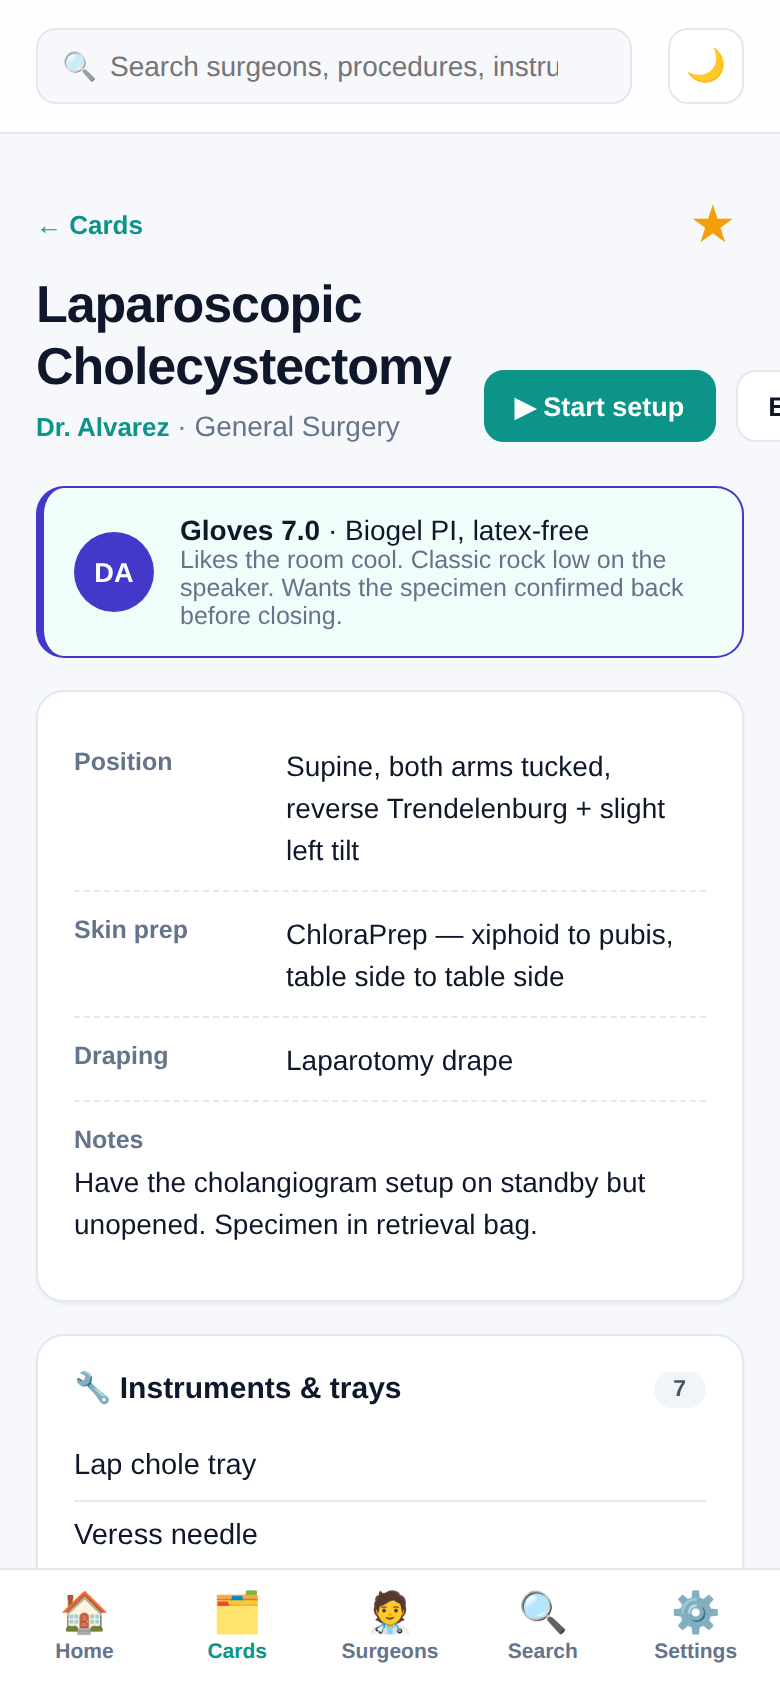
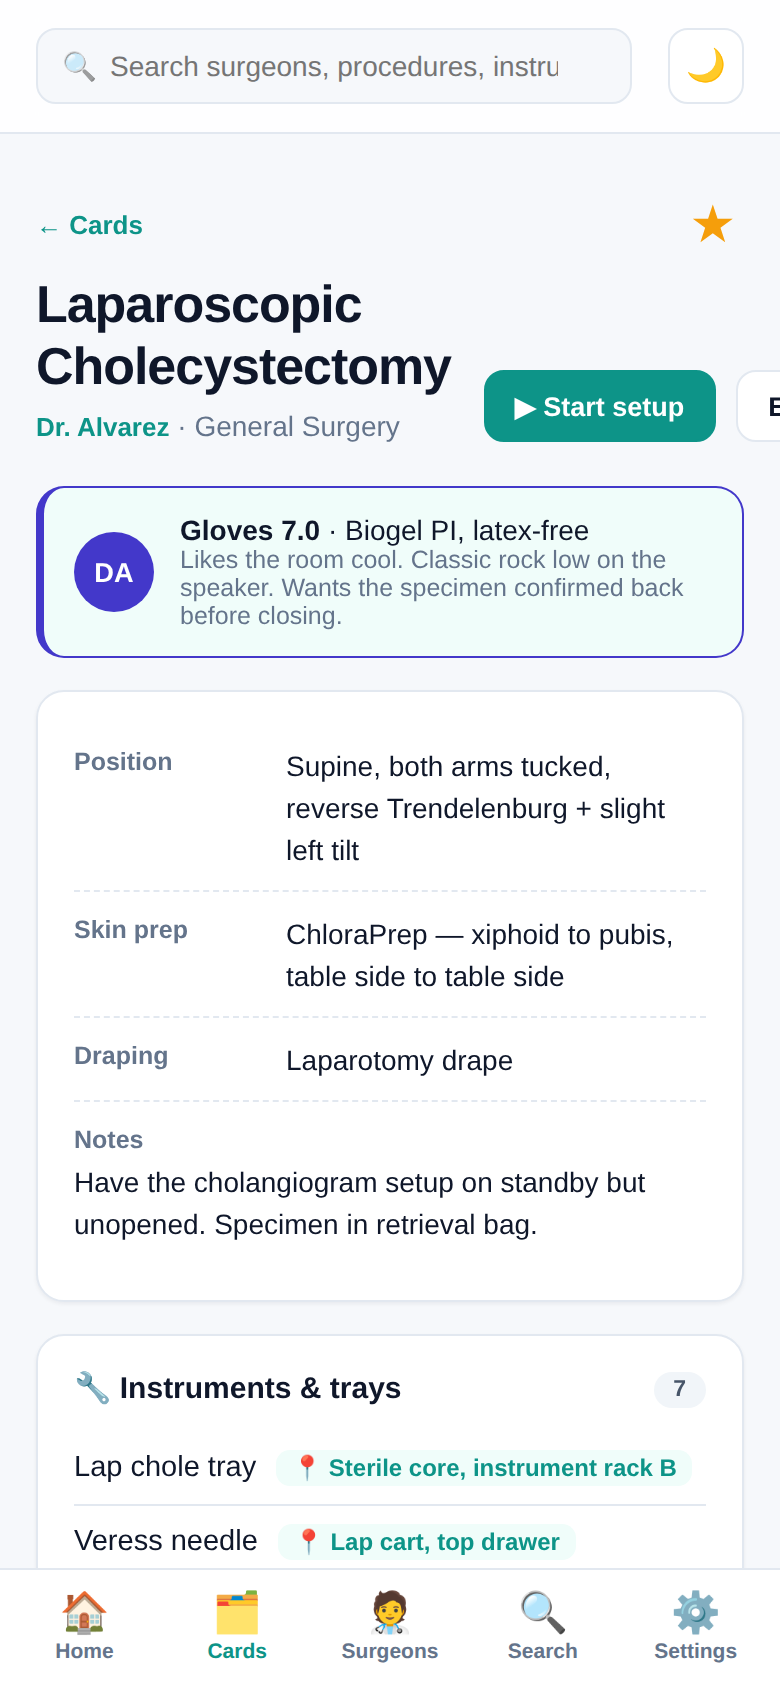
Add per-item storage locations ("cabinet 7, shelf 3")
Every card item can now carry an optional location — where to find it in
this facility. The thing a traveling tech in an unfamiliar OR needs most.

- CardItem gains an optional `location`; seed library populated with
  realistic examples (sterile store room, lap cart, suture room…).
- Card editor: a location input per item with a datalist of locations
  you've already used, so common spots are reused, not retyped.
- Surfaced as a teal 📍 tag in card detail and — most importantly — on each
  Setup-mode pull-list row (dimmed once the item is checked off).
- Locations are searchable ("cabinet 7" finds the card) and included in a
  shared/exported card's text.

Build + 19 tests green. Screenshots refreshed.

Claude-Session: https://claude.ai/code/session_0189FcNw7rgHX9dvCmvE1P3E

Changed region(s): [[0.3692, 0.8626, 0.8923, 0.9242], [0.0923, 0.8626, 0.3385, 0.9242]]

diff --git a/src/pages/CardEdit.tsx b/src/pages/CardEdit.tsx
@@ -1,6 +1,6 @@
 import { useMemo, useState } from "react";
 import { useNavigate, useParams } from "react-router-dom";
-import { useStore, emptyCard, uid } from "../state/store";
+import { useStore, emptyCard, uid, knownLocations } from "../state/store";
 import { SECTIONS, type CardItem, type PrefCard, type SectionKey } from "../types";
 
 // Create or edit a card. Local draft state; nothing is persisted until "Save".
@@ -21,6 +21,15 @@ export function CardEdit() {
   const [sgSpecialty, setSgSpecialty] = useState("General Surgery");
 
   const set = (patch: Partial<PrefCard>) => setDraft((d) => ({ ...d, ...patch }));
+
+  // Locations already used across the library (plus any added in this draft) so
+  // they can be reused from a dropdown instead of retyped each time.
+  const locationOptions = useMemo(() => {
+    const fromDraft = SECTIONS.flatMap((s) => draft[s.key as SectionKey])
+      .map((it) => it.location)
+      .filter((x): x is string => !!x);
+    return Array.from(new Set([...knownLocations(state), ...fromDraft])).sort();
+  }, [state, draft]);
 
   const canSave = useMemo(
     () => draft.procedure.trim().length > 0 && (newSurgeon ? sgName.trim().length > 0 : !!draft.surgeonId),
@@ -130,6 +139,7 @@ export function CardEdit() {
           label={sec.label}
           icon={sec.icon}
           items={draft[sec.key as SectionKey]}
+          locationOptions={locationOptions}
           onChange={(items) => set({ [sec.key]: items } as Partial<PrefCard>)}
         />
       ))}
@@ -147,21 +157,34 @@ function ItemEditor({
   label,
   icon,
   items,
+  locationOptions,
   onChange,
 }: {
   label: string;
   icon: string;
   items: CardItem[];
+  locationOptions: string[];
   onChange: (items: CardItem[]) => void;
 }) {
   const [name, setName] = useState("");
   const [detail, setDetail] = useState("");
+  const [location, setLocation] = useState("");
+  const listId = `loc-${label.replace(/\W+/g, "")}`;
 
   function add() {
     if (!name.trim()) return;
-    onChange([...items, { id: uid("it"), name: name.trim(), detail: detail.trim() || undefined }]);
+    onChange([
+      ...items,
+      {
+        id: uid("it"),
+        name: name.trim(),
+        detail: detail.trim() || undefined,
+        location: location.trim() || undefined,
+      },
+    ]);
     setName("");
     setDetail("");
+    setLocation("");
   }
 
   return (
@@ -177,6 +200,7 @@ function ItemEditor({
             <li key={it.id}>
               <span className="item-name">{it.name}</span>
               {it.detail && <span className="item-detail">{it.detail}</span>}
+              {it.location && <span className="item-location">📍 {it.location}</span>}
               <button
                 className="info-del"
                 aria-label={`Remove ${it.name}`}
@@ -189,6 +213,11 @@ function ItemEditor({
         </ul>
       )}
 
+      <datalist id={listId}>
+        {locationOptions.map((loc) => (
+          <option key={loc} value={loc} />
+        ))}
+      </datalist>
       <div className="item-add">
         <input
           placeholder="Add an item…"
@@ -200,6 +229,13 @@ function ItemEditor({
           placeholder="detail / size / qty (optional)"
           value={detail}
           onChange={(e) => setDetail(e.target.value)}
+          onKeyDown={(e) => e.key === "Enter" && add()}
+        />
+        <input
+          list={listId}
+          placeholder="📍 where to find it (optional)"
+          value={location}
+          onChange={(e) => setLocation(e.target.value)}
           onKeyDown={(e) => e.key === "Enter" && add()}
         />
         <button className="btn btn-sm" onClick={add} disabled={!name.trim()}>Add</button>

diff --git a/src/state/seed.ts b/src/state/seed.ts
@@ -7,8 +7,8 @@ import type { AppState, CardItem, PrefCard, Surgeon } from "../types";
 
 let n = 0;
 const id = (p: string) => `${p}-seed-${n++}`;
-const items = (...rows: [string, string?][]): CardItem[] =>
-  rows.map(([name, detail]) => ({ id: id("it"), name, detail }));
+const items = (...rows: [string, string?, string?][]): CardItem[] =>
+  rows.map(([name, detail, location]) => ({ id: id("it"), name, detail, location }));
 
 const surgeons: Surgeon[] = [
   {
@@ -95,23 +95,26 @@ const cards: PrefCard[] = [
     favorite: true,
     daysAgo: 1,
     instruments: items(
-      ["Lap chole tray"],
-      ["Veress needle"],
-      ["5mm + 10mm trocars", "2× 5mm, 2× 10/12mm"],
-      ["Maryland dissector"],
-      ["Laparoscopic hook cautery"],
-      ["Endo clip applier", "medium-large"],
-      ["Specimen retrieval bag"],
+      ["Lap chole tray", undefined, "Sterile core, instrument rack B"],
+      ["Veress needle", undefined, "Lap cart, top drawer"],
+      ["5mm + 10mm trocars", "2× 5mm, 2× 10/12mm", "Lap cart, drawer 2"],
+      ["Maryland dissector", undefined, "Lap cart, drawer 3"],
+      ["Laparoscopic hook cautery", undefined, "Lap cart, drawer 3"],
+      ["Endo clip applier", "medium-large", "Sterile store room, cabinet 7, shelf 3"],
+      ["Specimen retrieval bag", undefined, "Sterile store room, cabinet 7, shelf 3"],
     ),
-    sutures: items(["Vicryl 0", "fascia, ×2"], ["Monocryl 4-0", "skin"]),
+    sutures: items(
+      ["Vicryl 0", "fascia, ×2", "Suture room, bin V-0"],
+      ["Monocryl 4-0", "skin", "Suture room, bin M-4"],
+    ),
     supplies: items(
-      ["Veress / insufflation tubing"],
-      ["10mm 30° scope", "warmed"],
-      ["ESU pencil + cord"],
-      ["Suction-irrigator"],
-      ["Steri-Strips + dressing"],
+      ["Veress / insufflation tubing", undefined, "Lap cart, side bin"],
+      ["10mm 30° scope", "warmed", "Scope storage, cabinet 2"],
+      ["ESU pencil + cord", undefined, "Sterile store room, cabinet 3, shelf 1"],
+      ["Suction-irrigator", undefined, "Sterile store room, cabinet 3, shelf 2"],
+      ["Steri-Strips + dressing", undefined, "Dressing cart, drawer 4"],
     ),
-    medications: items(["Marcaine 0.25%", "local at port sites"], ["Surgicel", "available"]),
+    medications: items(["Marcaine 0.25%", "local at port sites", "Med room, fridge"], ["Surgicel", "available", "Sterile store room, cabinet 5"]),
     equipment: items(
       ["Laparoscopic tower + insufflator", "CO2 full"],
       ["ESU unit", "coag 30 / cut 30"],

diff --git a/src/styles.css b/src/styles.css
@@ -731,6 +731,12 @@ a { color: inherit; }
 .item-list li:last-child { border-bottom: none; }
 .item-name { font-size: 14.5px; font-weight: 500; }
 .item-detail { font-size: 12.5px; color: var(--muted); }
+.item-list li { flex-wrap: wrap; }
+/* "Where to find it" tag — teal so it reads as the actionable, traveler-facing bit. */
+.item-location {
+  font-size: 12px; font-weight: 600; color: var(--brand);
+  background: var(--brand-50); border-radius: 7px; padding: 2px 8px;
+}
 
 /* Item editor (card edit) */
 .edit-item-list { list-style: none; margin: 0 0 12px; padding: 0; display: flex; flex-direction: column; }
@@ -760,11 +766,15 @@ a { color: inherit; }
 .check-list { list-style: none; margin: 0; padding: 0; }
 .check-list li { border-bottom: 1px solid var(--line); }
 .check-list li:last-child { border-bottom: none; }
-.check-row { display: flex; align-items: center; gap: 13px; padding: 13px 2px; cursor: pointer; font-size: 15px; }
-.check-row input { width: 24px; height: 24px; flex-shrink: 0; accent-color: var(--brand); }
+.check-row { display: flex; align-items: flex-start; gap: 13px; padding: 13px 2px; cursor: pointer; font-size: 15px; }
+.check-row input { width: 24px; height: 24px; flex-shrink: 0; accent-color: var(--brand); margin-top: 1px; }
+.check-main { display: flex; flex-direction: column; gap: 5px; min-width: 0; }
+.check-line { display: flex; align-items: baseline; gap: 9px; flex-wrap: wrap; }
 .check-name { font-weight: 500; }
+.check-main .item-location { align-self: flex-start; }
 .check-list li.done .check-name { text-decoration: line-through; color: var(--muted); }
 .check-list li.done .item-detail { text-decoration: line-through; }
+.check-list li.done .item-location { opacity: 0.55; }
 .ready-cta { text-align: center; padding: 20px; }
 .ready-cta p { font-size: 18px; font-weight: 700; margin: 0 0 12px; }
 

diff --git a/src/pages/SetupMode.tsx b/src/pages/SetupMode.tsx
@@ -73,8 +73,13 @@ export function SetupMode() {
                   <li key={it.id} className={on ? "done" : ""}>
                     <label className="check-row">
                       <input type="checkbox" checked={on} onChange={() => toggleSetupItem(card.id, it.id)} />
-                      <span className="check-name">{it.name}</span>
-                      {it.detail && <span className="item-detail">{it.detail}</span>}
+                      <span className="check-main">
+                        <span className="check-line">
+                          <span className="check-name">{it.name}</span>
+                          {it.detail && <span className="item-detail">{it.detail}</span>}
+                        </span>
+                        {it.location && <span className="item-location">📍 {it.location}</span>}
+                      </span>
                     </label>
                   </li>
                 );

diff --git a/src/lib/search.ts b/src/lib/search.ts
@@ -46,9 +46,10 @@ export function search(state: AppState, raw: string): SearchHit[] {
     // Search inside every item line; surface the first matching item.
     for (const sec of SECTIONS) {
       for (const it of c[sec.key as SectionKey]) {
-        const sc = Math.max(score(it.name), score(it.detail ?? ""));
+        const sc = Math.max(score(it.name), score(it.detail ?? ""), score(it.location ?? ""));
         if (sc > 0 && sc >= best && !snippet) {
-          snippet = `${sec.label}: ${it.name}${it.detail ? ` (${it.detail})` : ""}`;
+          const where = it.location ? ` 📍 ${it.location}` : "";
+          snippet = `${sec.label}: ${it.name}${it.detail ? ` (${it.detail})` : ""}${where}`;
         }
         best = Math.max(best, sc);
       }

diff --git a/src/state/store.tsx b/src/state/store.tsx
@@ -239,6 +239,15 @@ export function totalItems(card: PrefCard): number {
   return SECTIONS.reduce((sum, sec) => sum + card[sec.key as SectionKey].length, 0);
 }
 
+/** Every distinct item location used across the library, for reuse suggestions. */
+export function knownLocations(s: AppState): string[] {
+  const set = new Set<string>();
+  for (const c of s.cards)
+    for (const sec of SECTIONS)
+      for (const it of c[sec.key as SectionKey]) if (it.location) set.add(it.location);
+  return Array.from(set).sort();
+}
+
 /** How many of a card's items are checked in the live setup. */
 export function setupProgress(s: AppState, card: PrefCard): { done: number; total: number } {
   const total = totalItems(card);

diff --git a/src/lib/search.test.ts b/src/lib/search.test.ts
@@ -28,6 +28,13 @@ describe("global search", () => {
     if (card && card.kind === "card") expect(card.snippet?.toLowerCase()).toContain("tourniquet");
   });
 
+  it("finds a card by an item's storage location", () => {
+    const hits = search(state, "cabinet 7");
+    const card = hits.find((h) => h.kind === "card");
+    expect(card).toBeTruthy();
+    if (card && card.kind === "card") expect(card.snippet).toContain("📍");
+  });
+
   it("ranks exact procedure matches above incidental item matches", () => {
     const hits = search(state, "vicryl"); // appears as a suture on several cards
     expect(hits.length).toBeGreaterThan(1);

diff --git a/src/types.ts b/src/types.ts
@@ -23,11 +23,14 @@ export interface Surgeon {
 }
 
 /** A single line on a card: an instrument, suture, supply, med, or piece of
- *  equipment. `detail` carries size / quantity / "for fascia" context. */
+ *  equipment. `detail` carries size / quantity / "for fascia" context;
+ *  `location` is where to find it in this facility ("Sterile store room,
+ *  cabinet 7, shelf 3") — the thing a traveling tech needs most. */
 export interface CardItem {
   id: ID;
   name: string;
   detail?: string;
+  location?: string;
 }
 
 /** The five checklist sections every card shares. Kept as a const tuple so the

diff --git a/src/lib/share.ts b/src/lib/share.ts
@@ -27,7 +27,10 @@ export function cardToText(card: PrefCard, surgeon?: Surgeon): string {
     if (!arr.length) continue;
     lines.push("");
     lines.push(`${sec.label.toUpperCase()}`);
-    for (const it of arr) lines.push(`  • ${it.name}${it.detail ? ` — ${it.detail}` : ""}`);
+    for (const it of arr) {
+      lines.push(`  • ${it.name}${it.detail ? ` — ${it.detail}` : ""}`);
+      if (it.location) lines.push(`      📍 ${it.location}`);
+    }
   }
 
   lines.push("");

diff --git a/src/lib/share.test.ts b/src/lib/share.test.ts
@@ -23,6 +23,10 @@ describe("cardToText", () => {
     expect(text).toMatch(/Vicryl 0 — fascia/);
   });
 
+  it("includes the location for items that have one", () => {
+    expect(text).toContain("📍 Sterile store room, cabinet 7, shelf 3");
+  });
+
   it("works without a surgeon", () => {
     const t = cardToText(card);
     expect(t).toContain("LAPAROSCOPIC CHOLECYSTECTOMY");

diff --git a/src/pages/CardDetail.tsx b/src/pages/CardDetail.tsx
@@ -120,6 +120,7 @@ export function CardDetail() {
                 <li key={it.id}>
                   <span className="item-name">{it.name}</span>
                   {it.detail && <span className="item-detail">{it.detail}</span>}
+                  {it.location && <span className="item-location">📍 {it.location}</span>}
                 </li>
               ))}
             </ul>

diff --git a/README.md b/README.md
@@ -46,6 +46,10 @@ hospital admin.
   with big tap targets; check items off as you gather them; a progress bar hits
   **"Case ready"** at 100%. Progress is saved, so locking your phone mid-setup
   loses nothing.
+- **Item locations** — tag any item with where to find it in *this* facility
+  ("Sterile store room, cabinet 7, shelf 3"). Locations you've used are offered
+  as suggestions for reuse, are searchable, and show right on the pull-list —
+  the thing a traveling tech in an unfamiliar OR needs most.
 - **Surgeons** — a profile per surgeon with **glove size**, glove type, facility,
   and free-text **quirks** ("tourniquet up before prep," "no chatter on
   closing") surfaced right where you set up.
